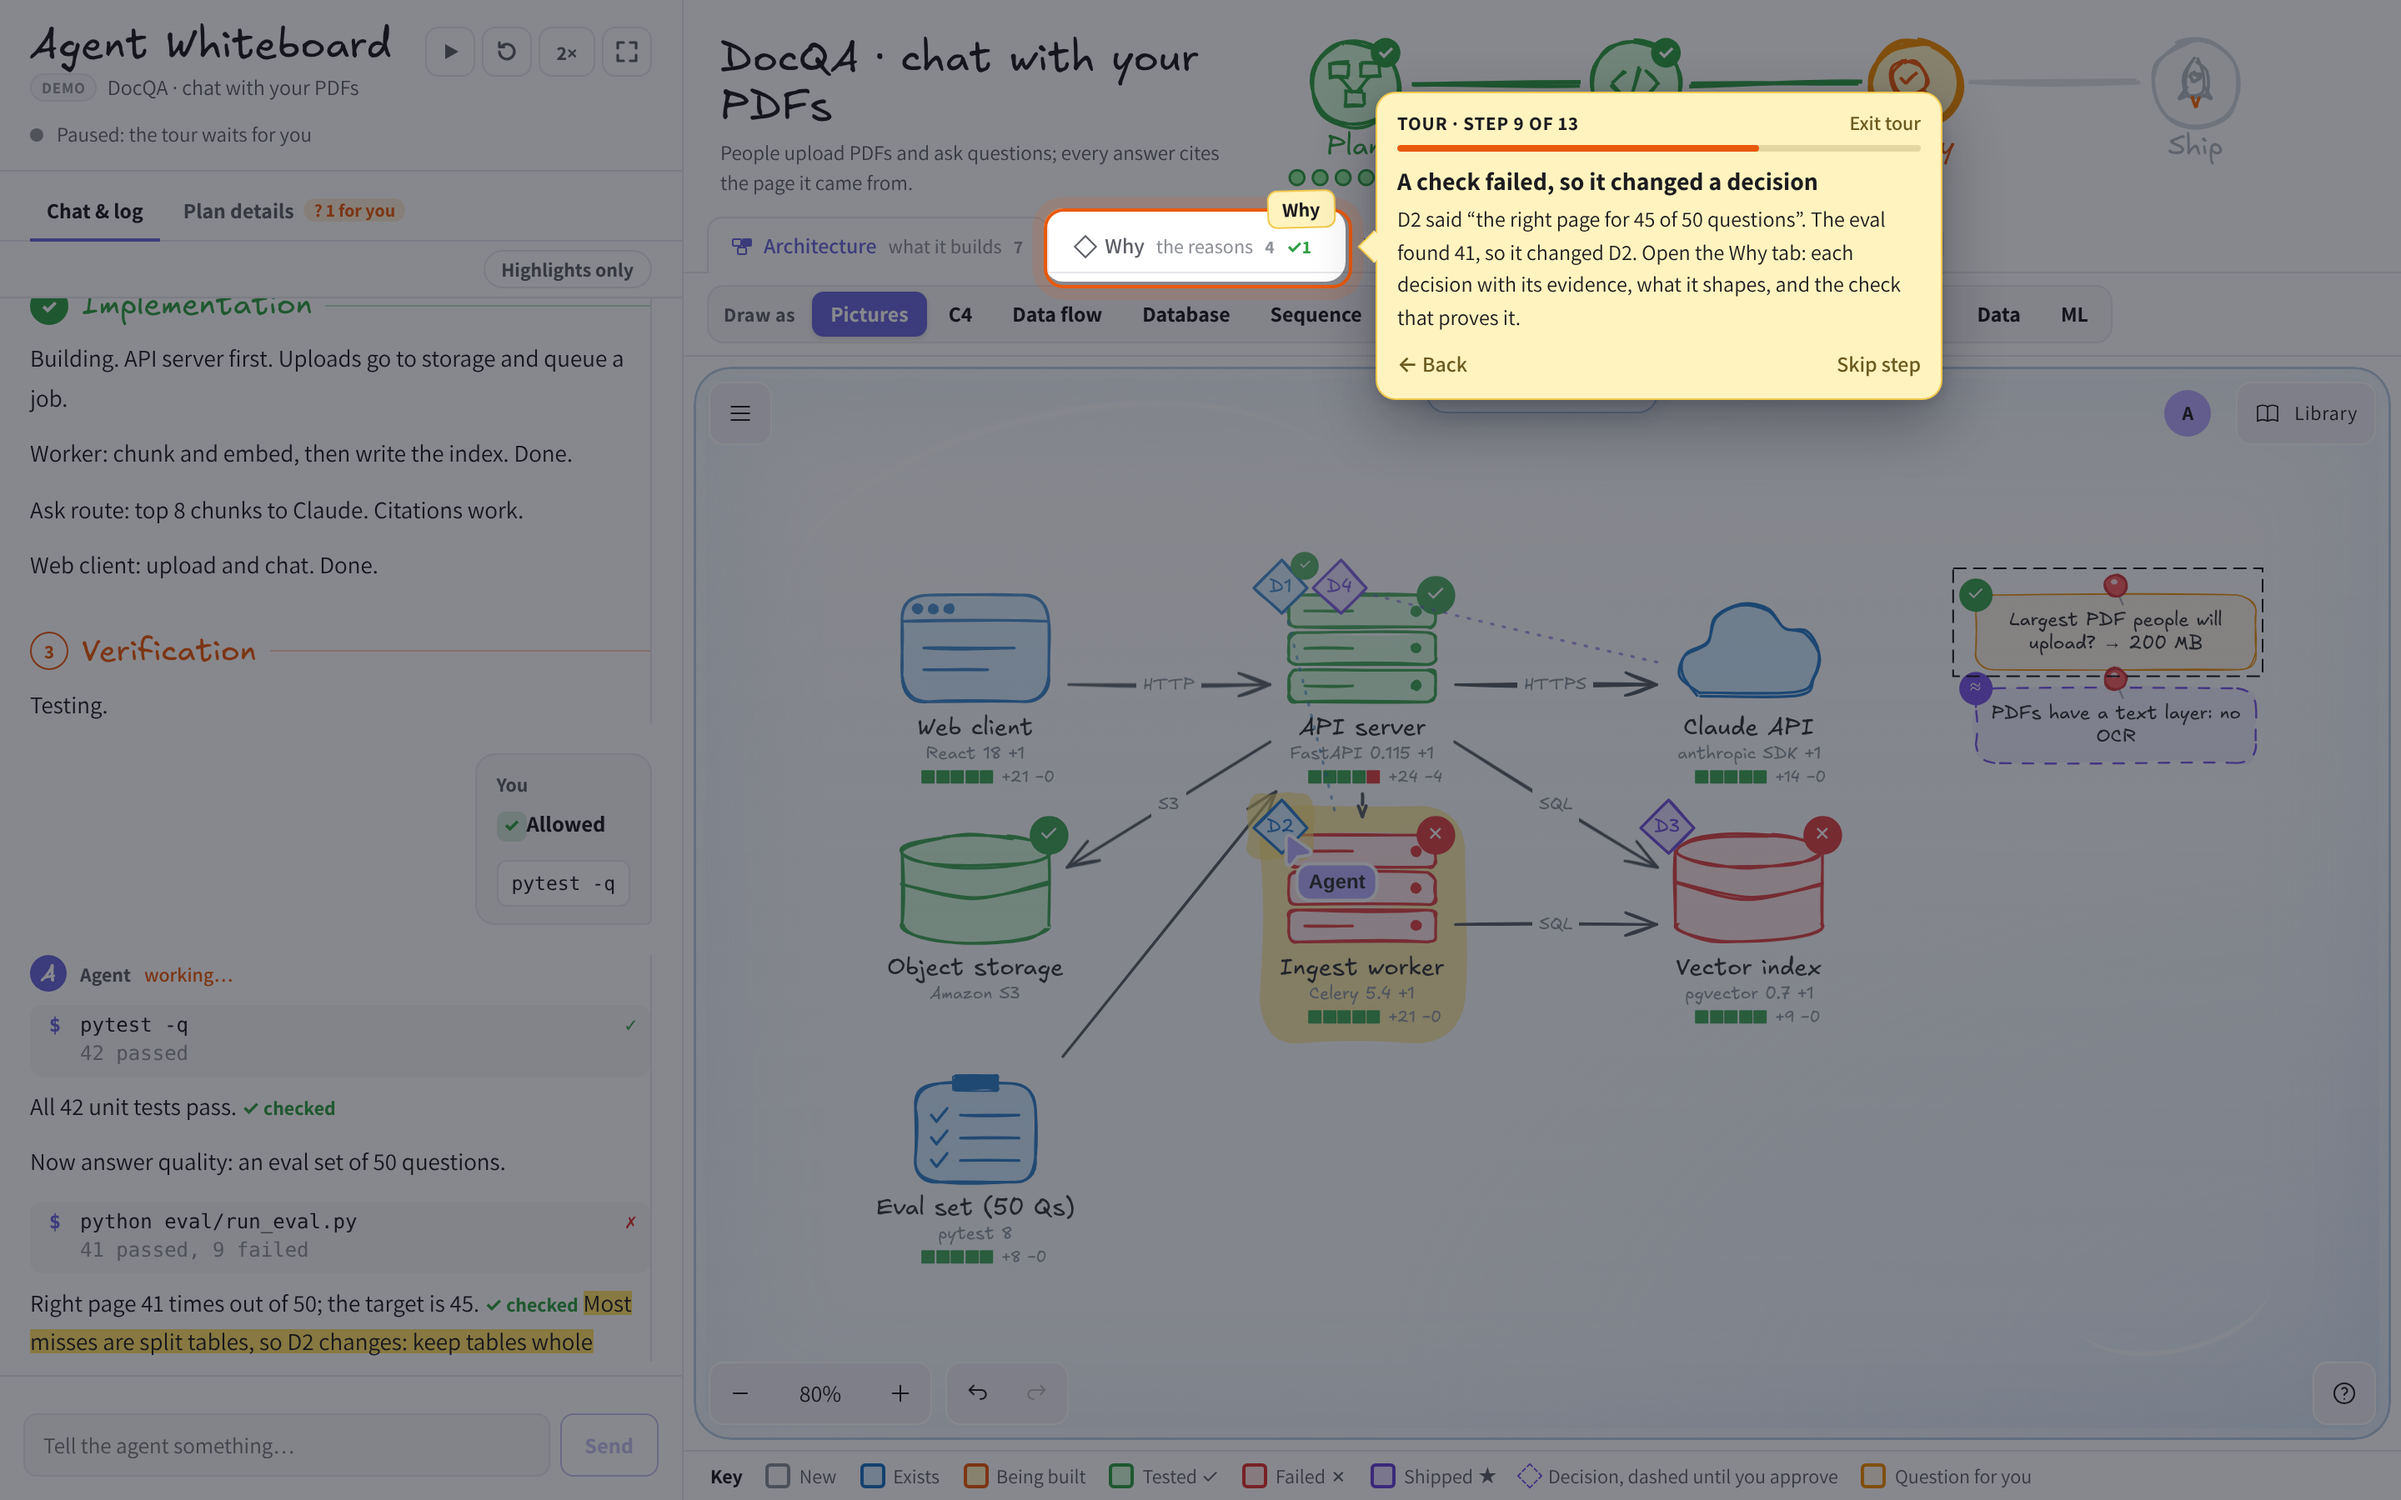
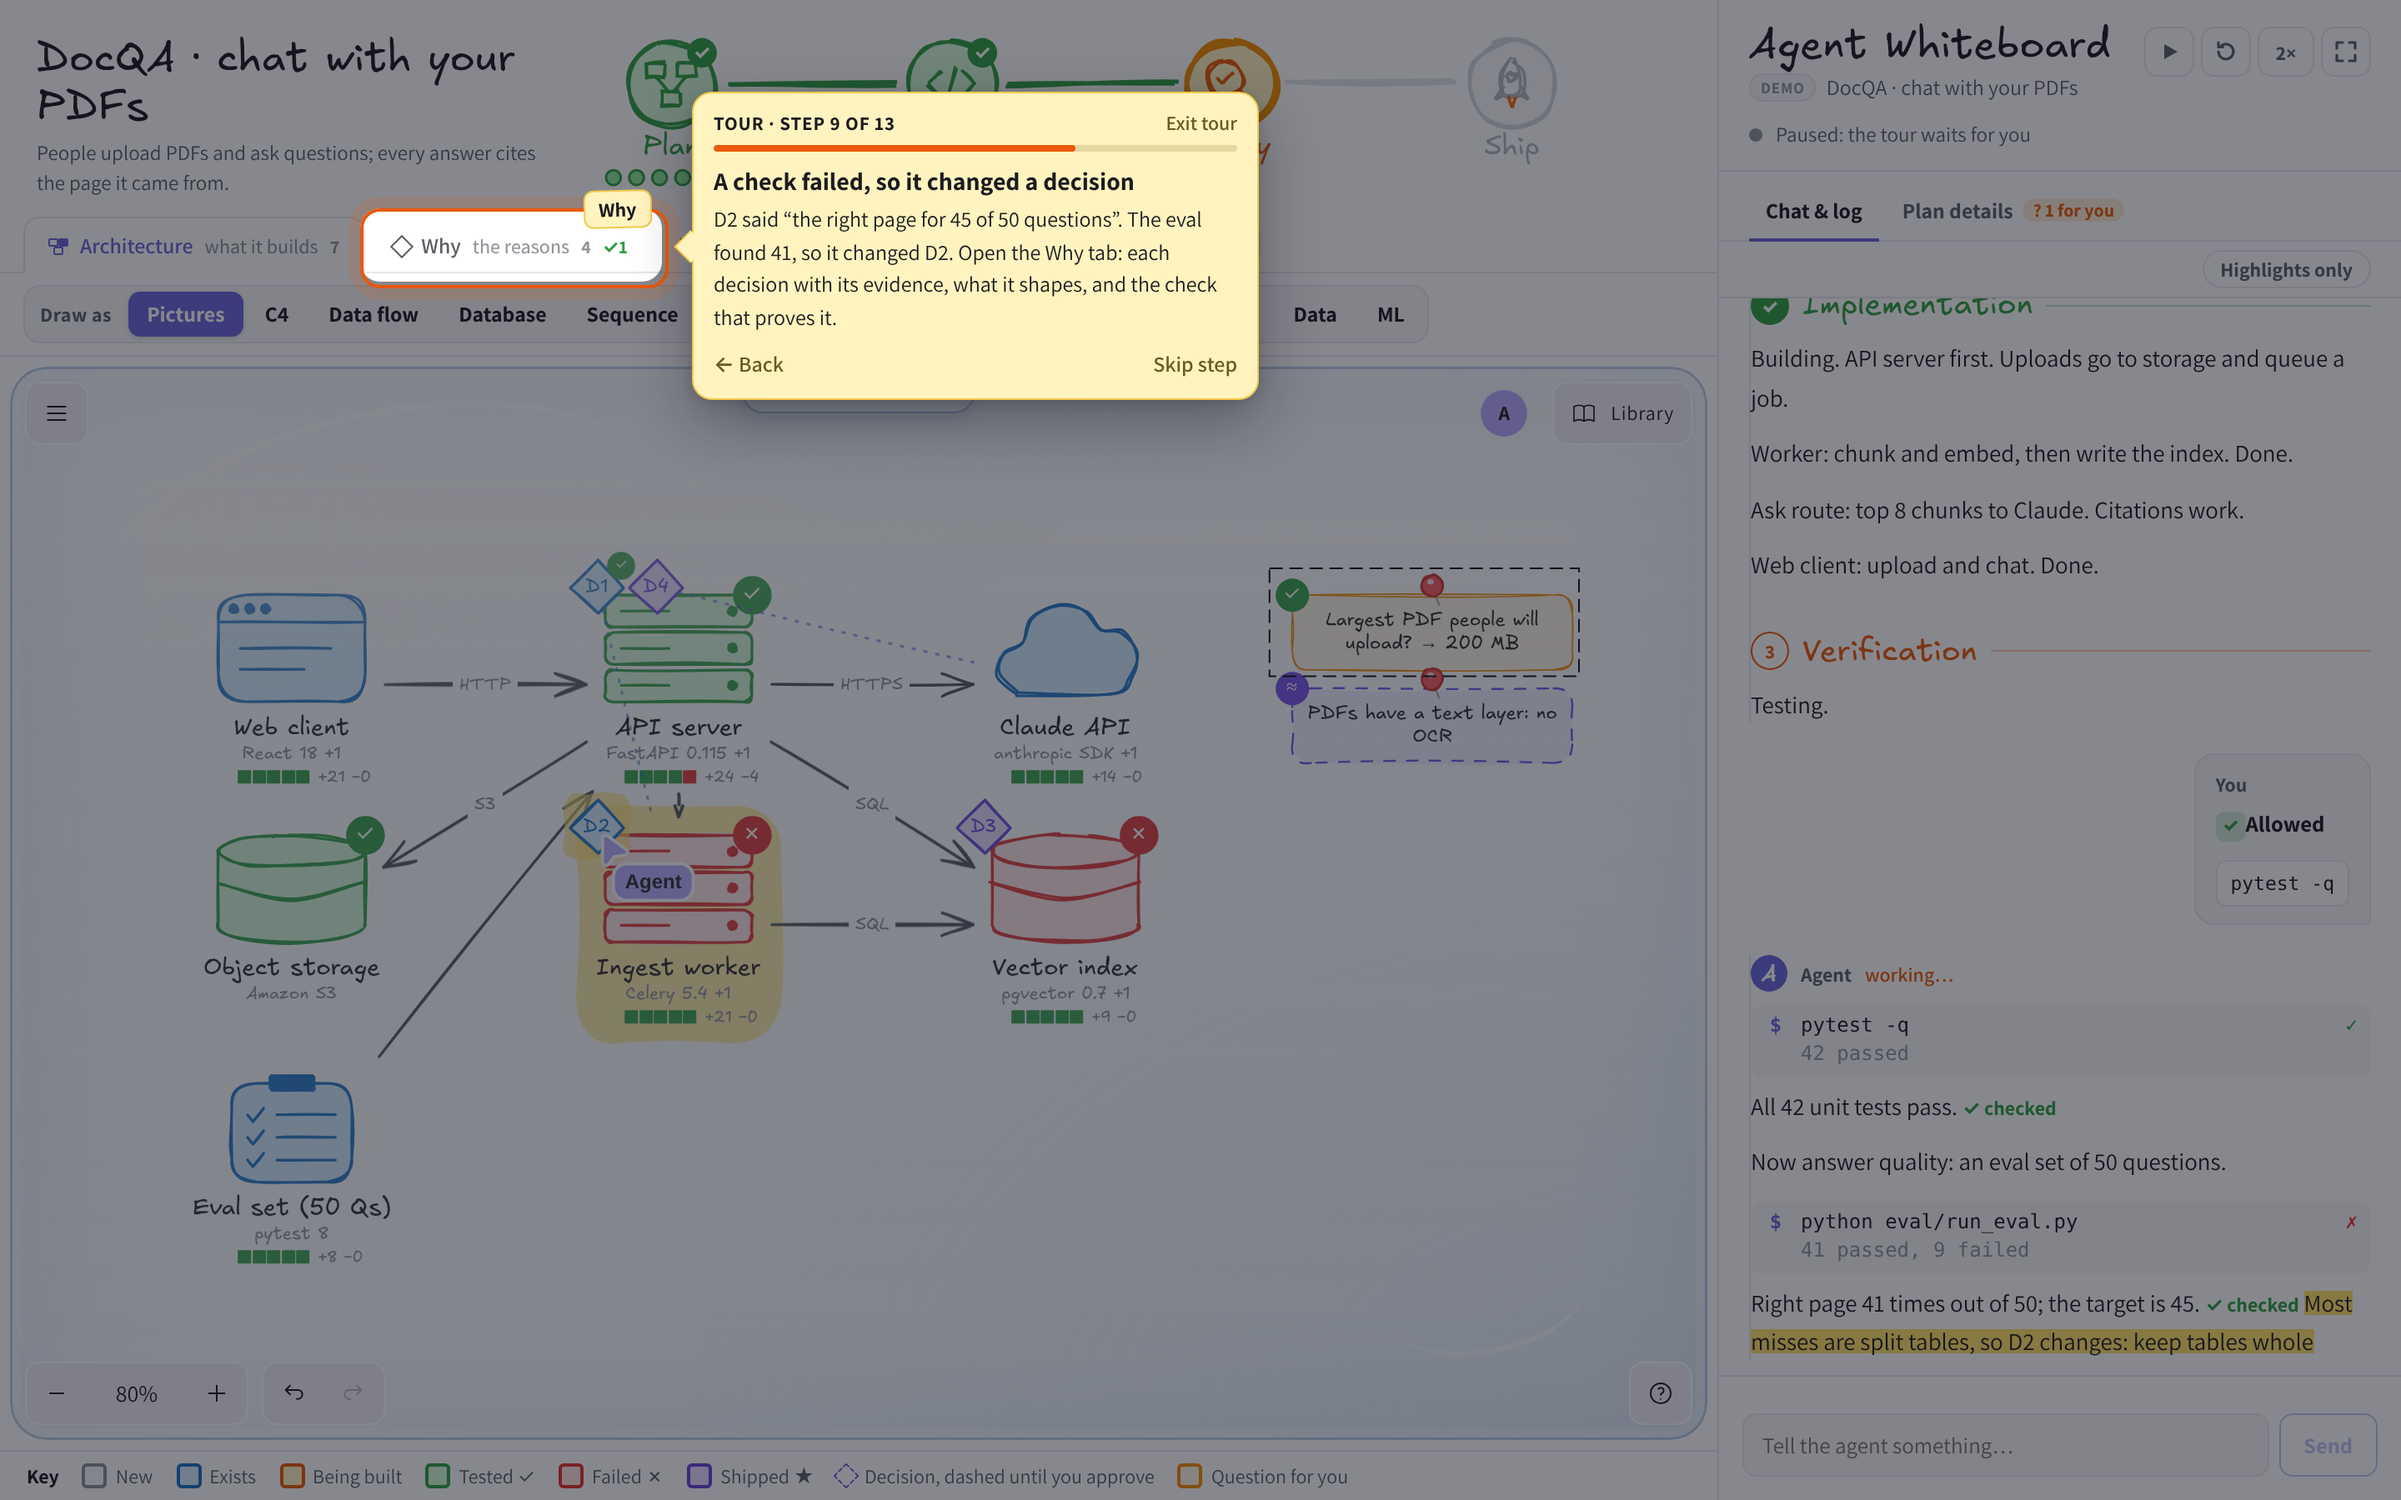
The panel moves to the right of the board
The board takes the left of the screen and the panel (Chat & log, Plan
details, the tips and the input) sits on the right. The panel stays first
in the page for keyboard and screen readers; CSS order puts the board
first, as it already did on narrow screens (board on top).

Copy no longer says which side the drawing is on. Tour, tips, glass and
zoom screenshots retaken (tour-check passes, light and dark).

Claude-Session: https://claude.ai/code/session_01CnzFEP1V3N7s4aLoNxWexn

diff --git a/src/App.jsx b/src/App.jsx
@@ -1702,7 +1702,7 @@ export default function App() {
         ? {
             n: 1,
             title: "Tell the agent what to build",
-            text: "Pick an example, or describe your own task in the box at the bottom. It reads the code and draws a plan on the right, then waits for your OK. Nothing in your repo changes before that.",
+            text: "Pick an example, or describe your own task in the box at the bottom. It reads the code and draws a plan on the board, then waits for your OK. Nothing in your repo changes before that.",
             action: { label: "Watch a demo first", run: runDemo },
           }
         : !messages.length
@@ -1717,7 +1717,7 @@ export default function App() {
               ? {
                   n: 2,
                   title: "Check the plan",
-                  text: `The drawing on the right is its plan. Nothing is built until you approve.${openQuestions ? ` It left ${plural(openQuestions, "question")} for you in Plan details.` : ""} Click a ◇ to see other options; pull the glass down to change the drawing.`,
+                  text: `The drawing is its plan. Nothing is built until you approve.${openQuestions ? ` It left ${plural(openQuestions, "question")} for you in Plan details.` : ""} Click a ◇ to see other options; pull the glass down to change the drawing.`,
                 }
               : finishedRun || phase === "complete"
                 ? {

diff --git a/src/styles.css b/src/styles.css
@@ -53,15 +53,17 @@ button {
   font-family: inherit;
 }
 
+/* The board on the left, the panel (first in the page, for keyboard and screen readers) on the right. */
 .app {
   display: grid;
-  grid-template-columns: minmax(340px, 410px) 1fr;
+  grid-template-columns: 1fr minmax(340px, 410px);
   height: 100%;
   background: var(--panel);
   color: var(--ink);
 }
 /* ---- the board: the journey on top, then a tab per canvas ---- */
 .board {
+  order: -1;
   position: relative;
   min-width: 0;
   min-height: 0;
@@ -465,7 +467,7 @@ button {
   display: flex;
   flex-direction: column;
   min-height: 0;
-  border-right: 1px solid var(--line);
+  border-left: 1px solid var(--line);
   background: var(--panel);
 }
 
@@ -2101,9 +2103,6 @@ button:focus-visible {
     grid-template-columns: minmax(0, 1fr);
     grid-template-rows: 55vh minmax(0, 1fr);
   }
-  .board {
-    order: -1;
-  }
   .journey {
     padding: 6px 12px 0 14px;
   }
@@ -2118,7 +2117,7 @@ button:focus-visible {
     height: 84px;
   }
   .agent {
-    border-right: 0;
+    border-left: 0;
     border-top: 1px solid var(--line);
   }
 }

diff --git a/docs/TUTORIAL.md b/docs/TUTORIAL.md
@@ -8,7 +8,7 @@ This guide takes you through one whole run, step by step. You don't need an API 
 
 - **Agent:** a program that uses an AI model to work on code by itself: it reads files, edits them and runs commands.
 - **Run:** one task from start to finish: plan → build → verify (test) → ship.
-- **Board:** the drawing on the right. It's the agent's plan as a picture, and you can edit it.
+- **Board:** the drawing on the left. It's the agent's plan as a picture, and you can edit it.
 - **Part (component):** one piece of the system, like the web page, the server or the database.
 - **Decision (◇):** a technical choice the agent made, like "use a background worker".
 
@@ -46,8 +46,8 @@ The rest of this guide covers the same run in more detail. Do the tour first, th
 
 ![The tour's first step rings the three areas: the panel, the board, and the phase road](../screenshots/tour/01-welcome.png)
 
-1. **The panel (left).** The agent talks here, and you answer. It has two tabs: **Chat & log** (what it said and did) and **Plan details** (the plan in words). The box at the bottom is for typing to it.
-2. **The board (right).** The plan as a drawing. Each picture is a part of the system; arrows show which part talks to which.
+1. **The panel (right).** The agent talks here, and you answer. It has two tabs: **Chat & log** (what it said and did) and **Plan details** (the plan in words). The box at the bottom is for typing to it.
+2. **The board (left).** The plan as a drawing. Each picture is a part of the system; arrows show which part talks to which.
 3. **The phase road (top).** Where the run is: **Plan → Build → Verify → Ship**, with a dot for each task.
 
 ### Legend
